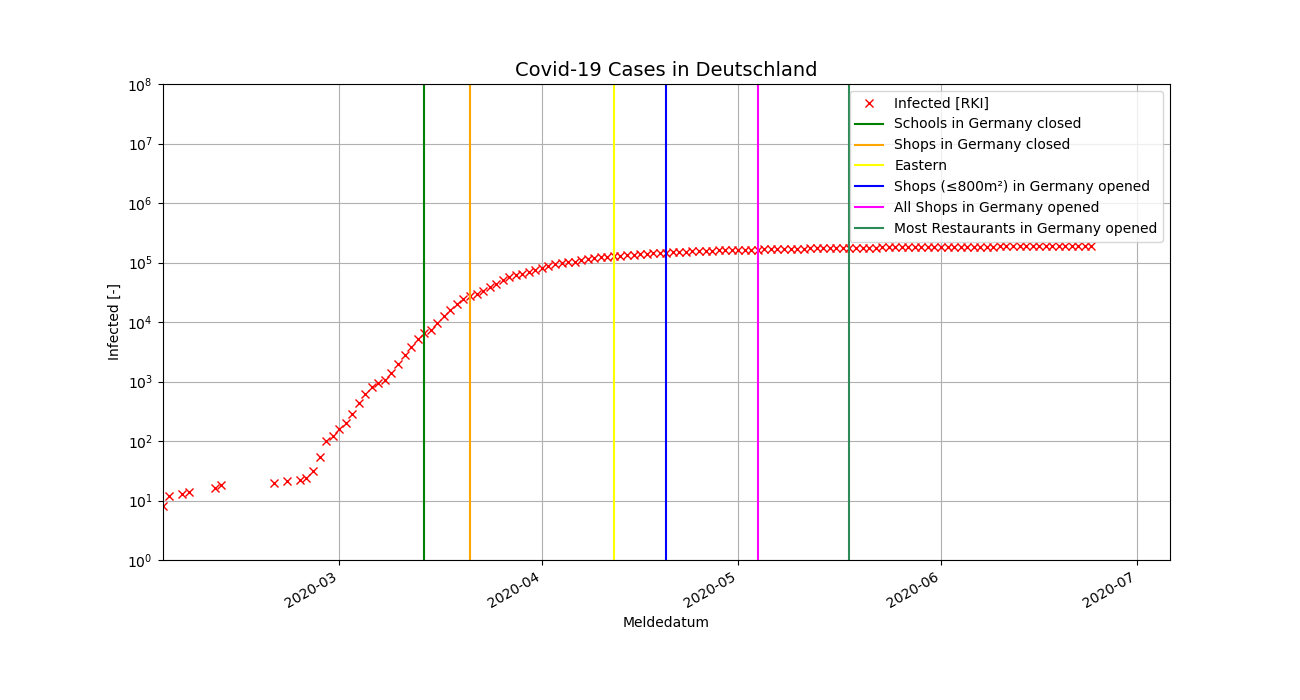
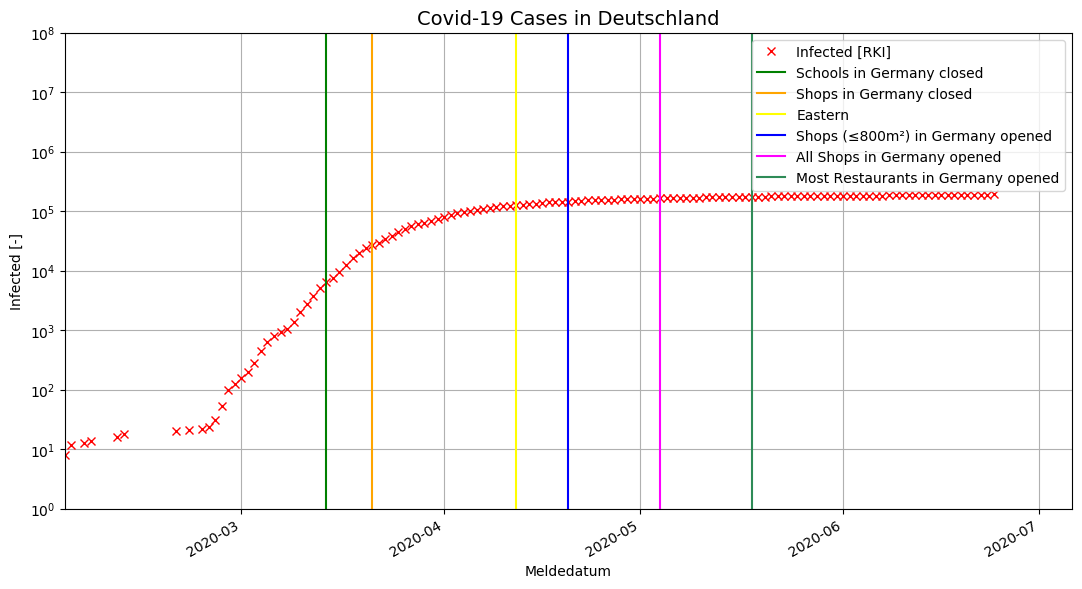
Repaired pictures

diff --git a/coro.py b/coro.py
@@ -71,7 +71,7 @@ def get_plot(plots):
         plt.ylim((1, 100e6))
         plt.xlim((plt.xlim()[0]+6, plt.xlim()[0]+160))
         plt.ylabel('Infected [-]')
-        plt.savefig(a_plot['safe_path'])
+        plt.savefig(a_plot['safe_path'], bbox_inches = 'tight')
 
         plt.gcf().set_size_inches(2,2)
         ax.get_legend().remove()
@@ -82,7 +82,7 @@ def get_plot(plots):
         ax.xaxis.get_label().set_fontsize(6)
         ax.yaxis.get_label().set_fontsize(6)
         ax.title.set_fontsize(7)
-        plt.savefig(a_plot['thumb_path'])
+        plt.savefig(a_plot['thumb_path'], bbox_inches = 'tight')
 
         plt.close()
 

diff --git a/_posts/2020-06-25-corona_update.md b/_posts/2020-06-25-corona_update.md
@@ -1,7 +1,7 @@
 ---
 layout: post
 title: Covid-19 Update
-date:   2020-06-25 10:48:29 +0200
+date:   2020-06-25 10:53:33 +0200
 mathjax: true
 categories: Corona, Covid-19, update
 images:
